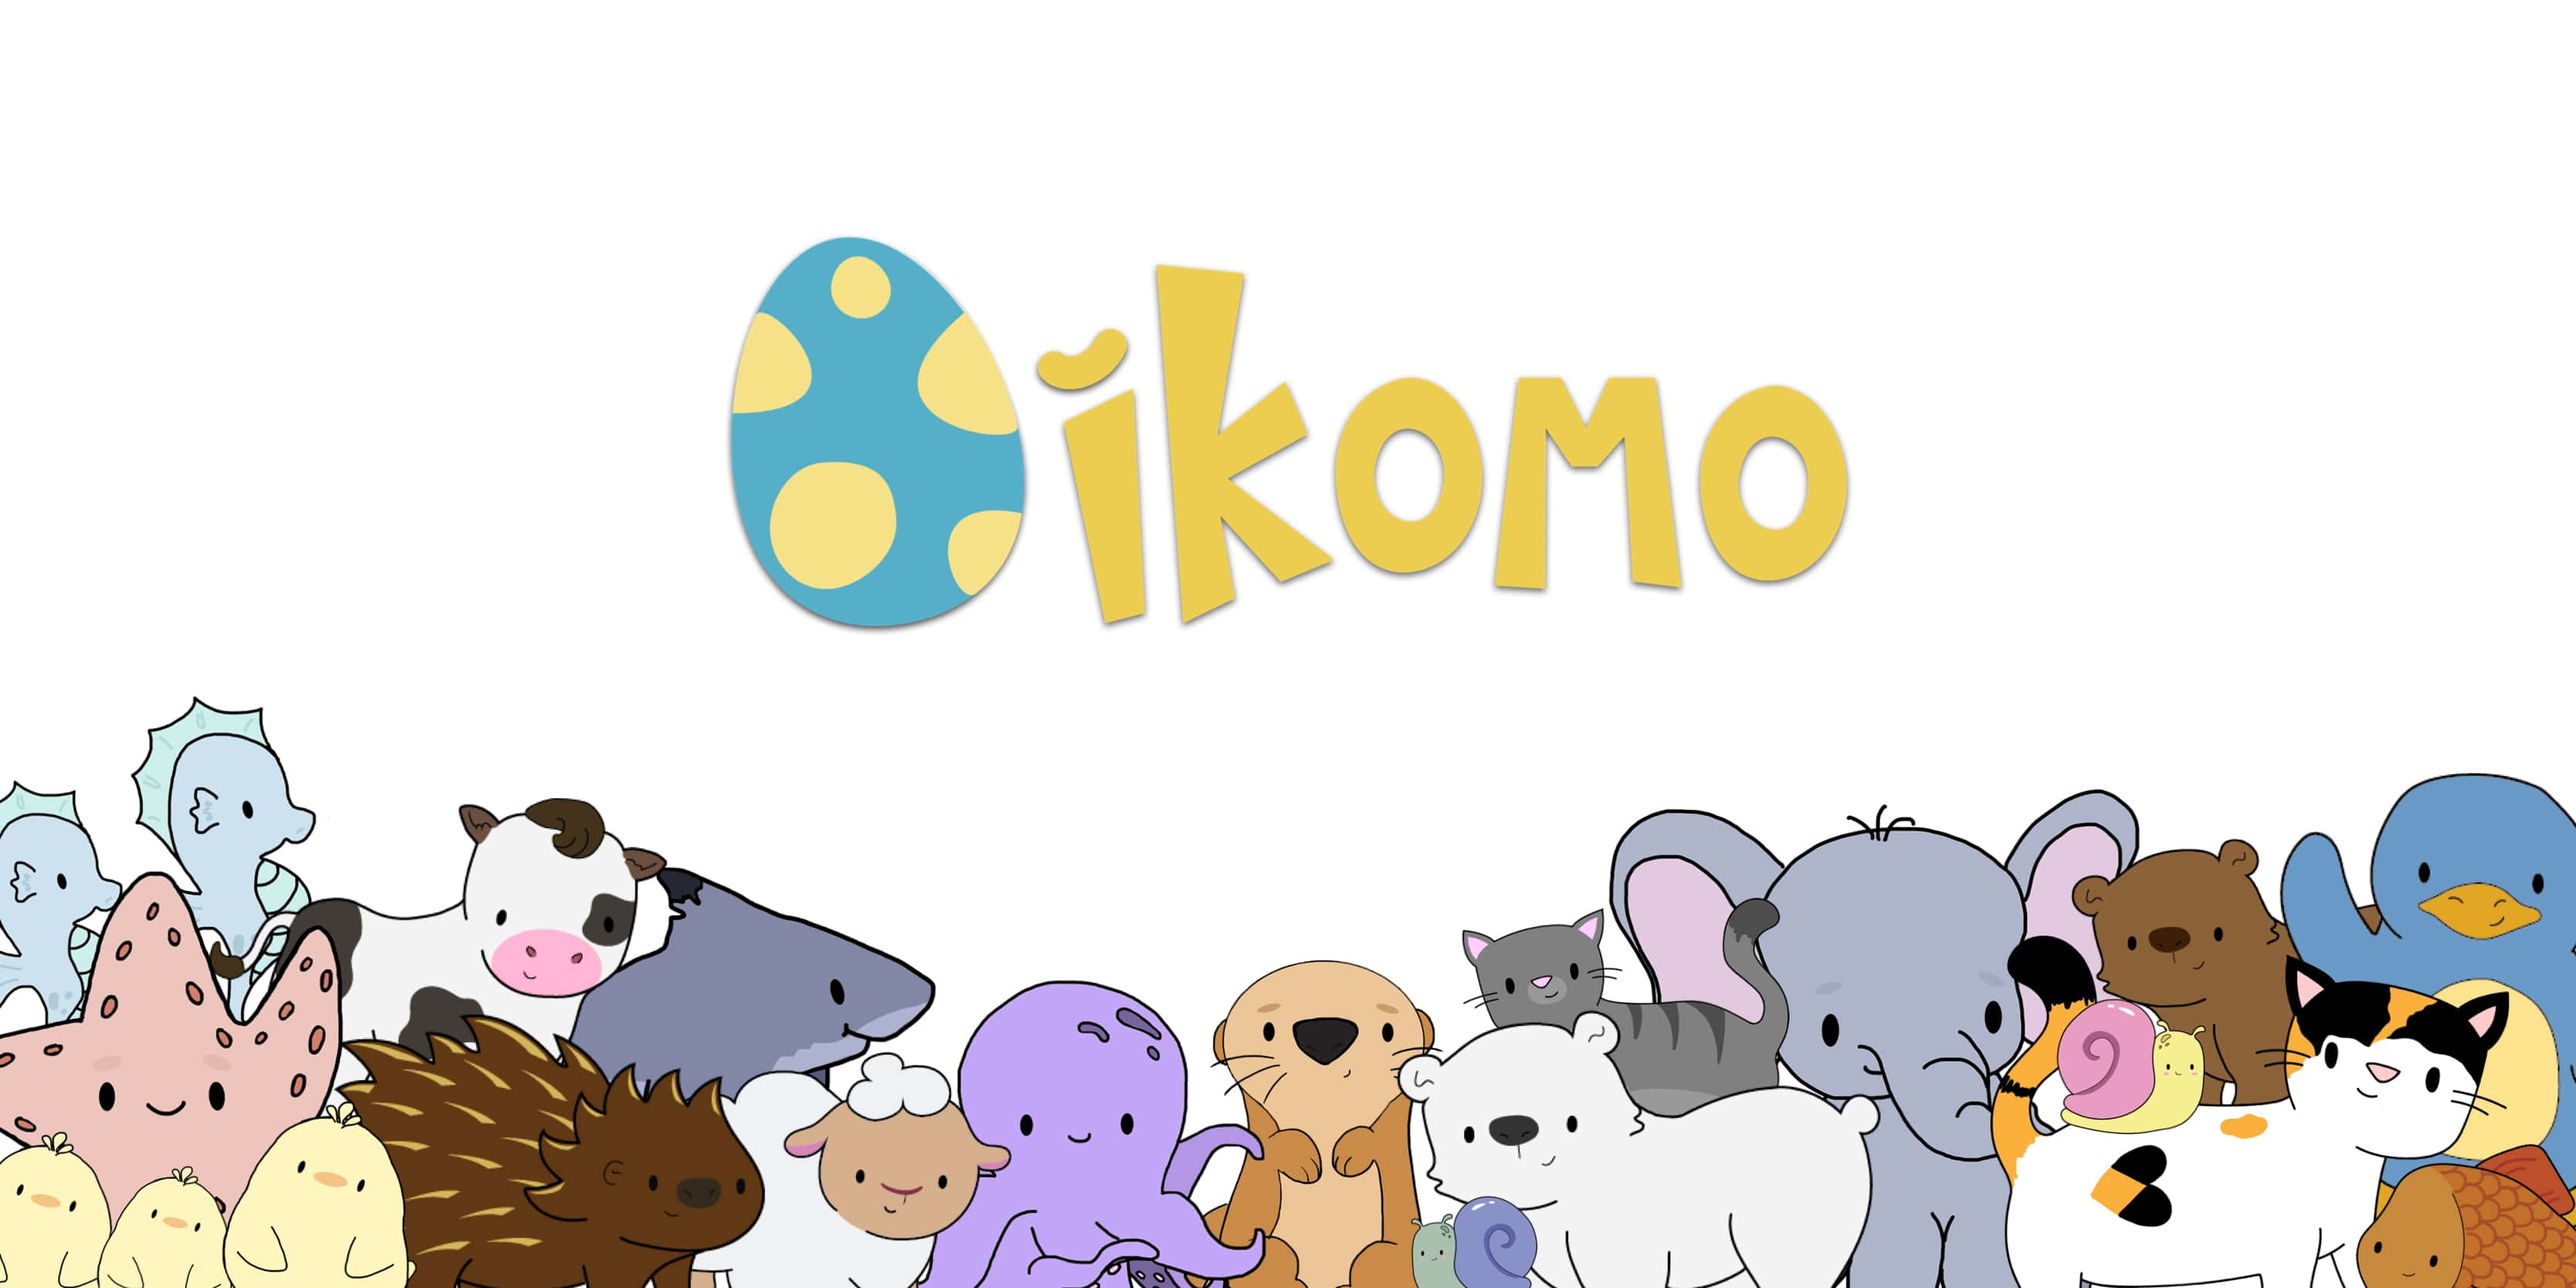
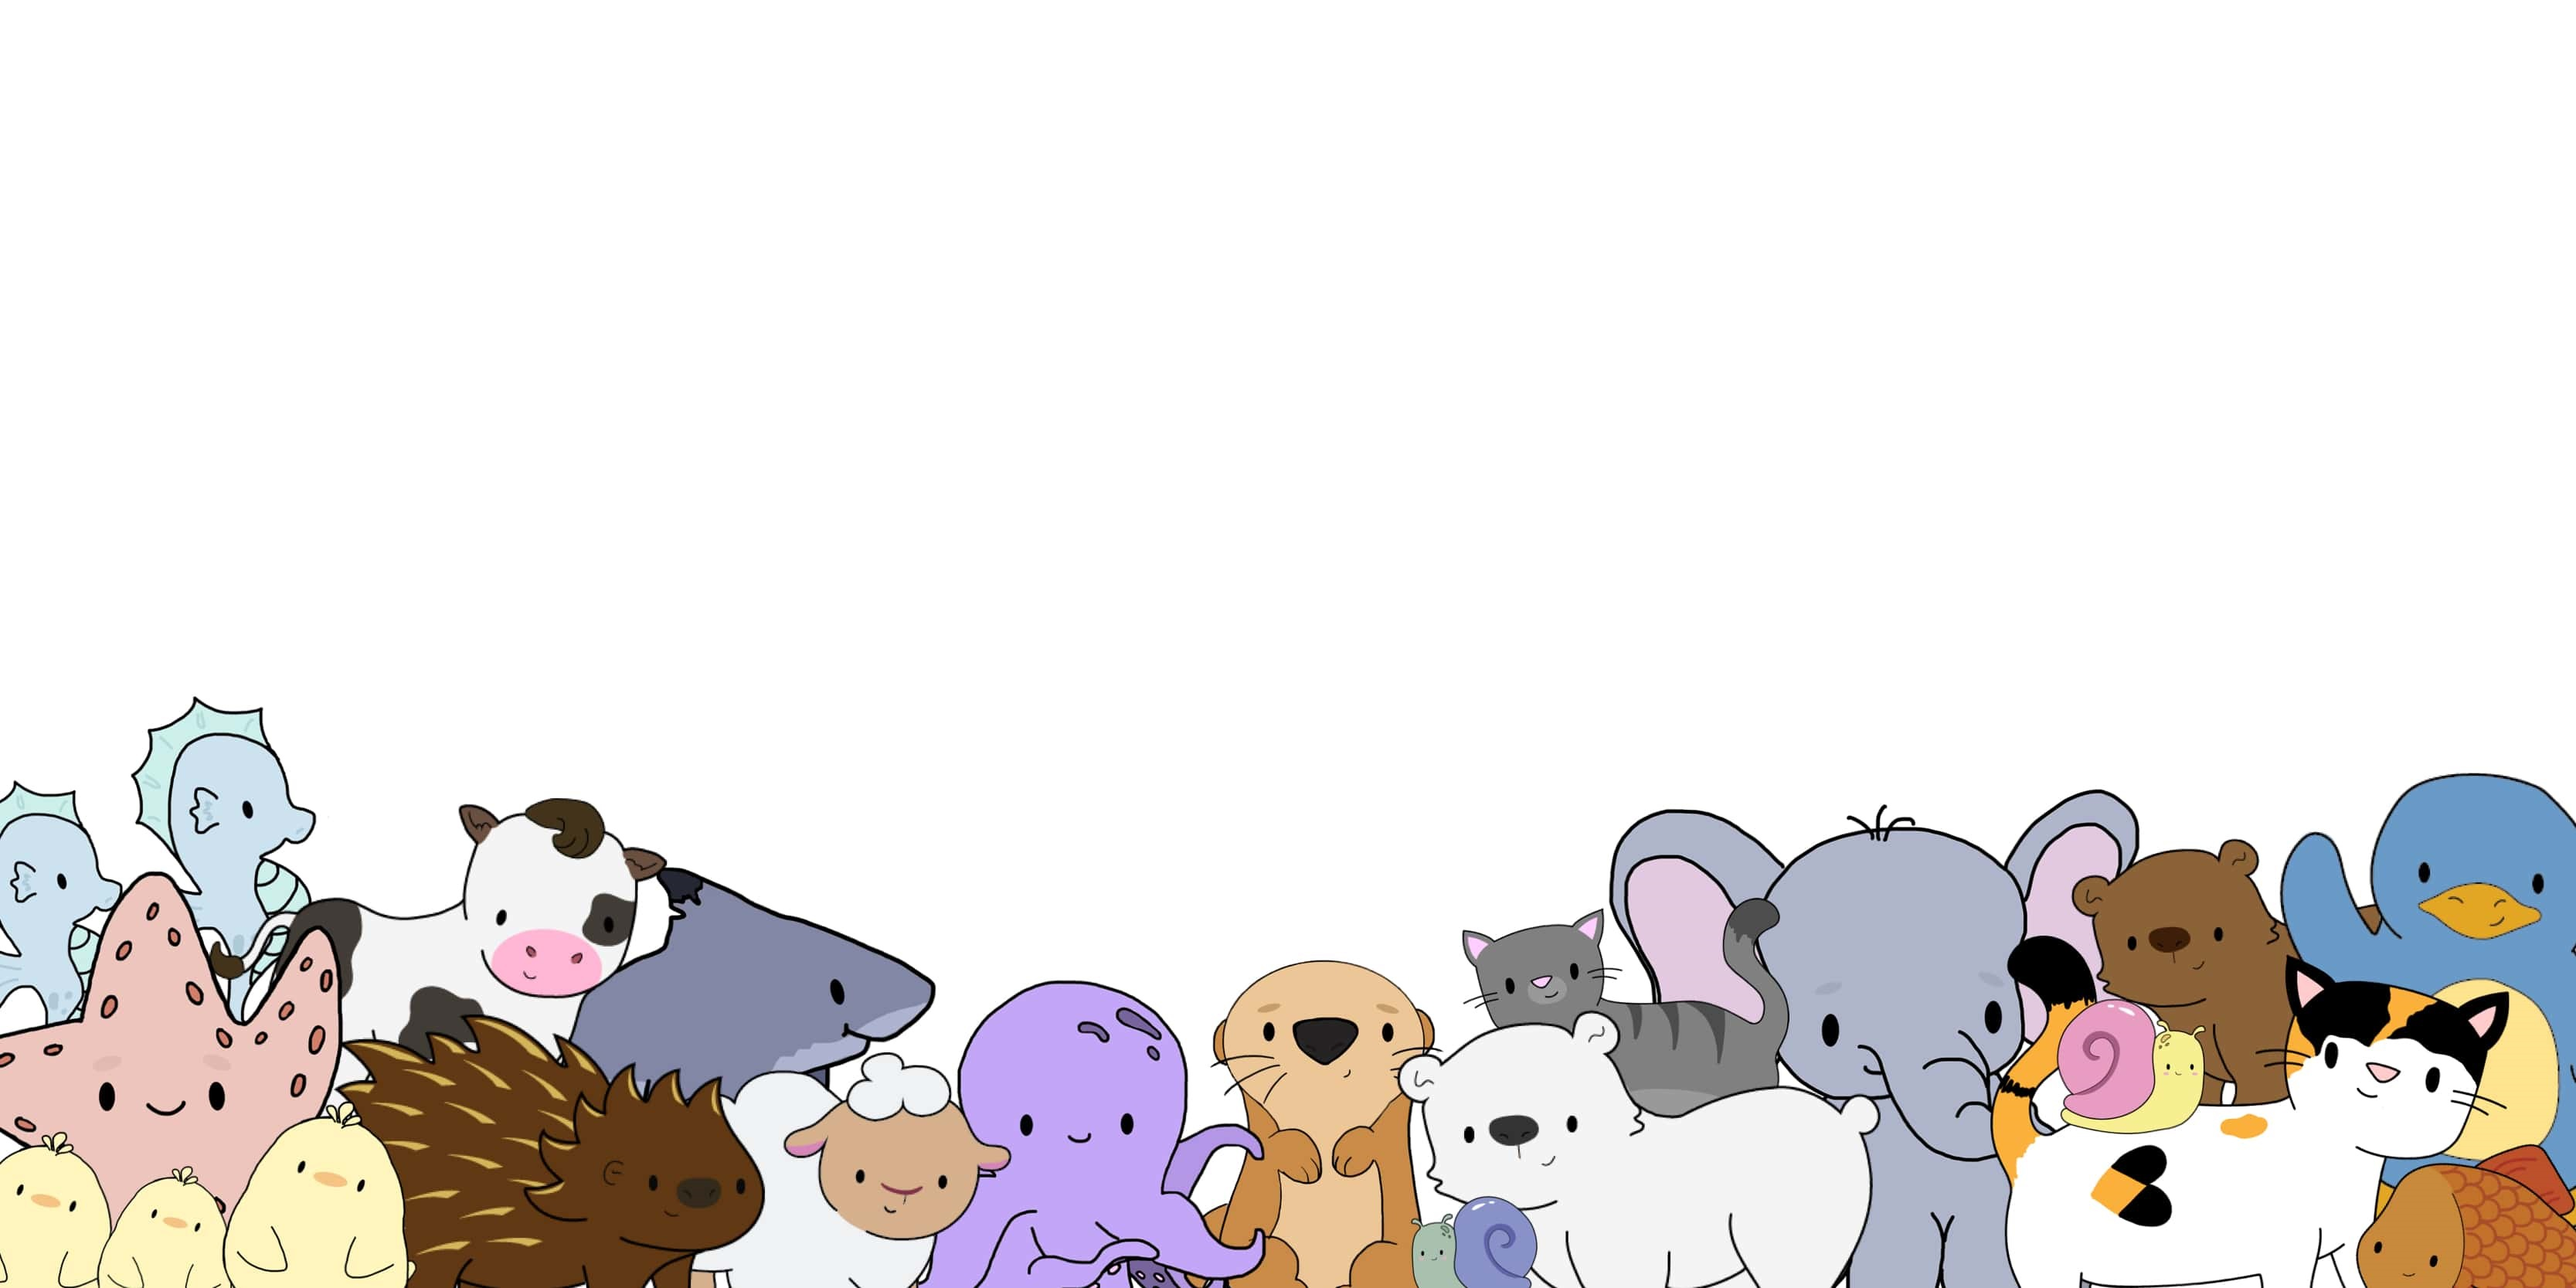
a

Changed region(s): [[0.2807, 0.1872, 0.7175, 0.4991]]

diff --git a/main.css b/main.css
@@ -53,3 +53,6 @@ body, html {
 #mainWelcomeText{
   text-align: center;
 }
+#mainScreenLogo{
+  display:none;
+}

diff --git a/index.php b/index.php
@@ -5,6 +5,7 @@ require 'header.php';
  <html>
   <head>
     <link rel = "stylesheet" type = "text/css" href = "main.css"/>
+    <link rel = "stylesheet" type = "text/css" href = "animate.css"/>
     <link rel = "stylesheet" href="https://stackpath.bootstrapcdn.com/bootstrap/4.1.3/css/bootstrap.min.css" integrity="sha384-MCw98/SFnGE8fJT3GXwEOngsV7Zt27NXFoaoApmYm81iuXoPkFOJwJ8ERdknLPMO" crossorigin="anonymous" />
     <style>
       #overlay {
@@ -76,7 +77,7 @@ require 'header.php';
 
         </div>
         <div id = "mainWelcomeText" class = "col-md-10">
-            <p class = "titleText"></p>
+            <img id = "mainScreenLogo" src = "./img/logo.jpg" class = "slideInUp" height ="176px" width = "402px">
         </div>
         <div class = "col-md-1">
 
@@ -111,6 +112,7 @@ require 'header.php';
   }
 
   progress();
+  document.getElementById('mainScreenLogo').style.display = block;
 </script>
 
  </html>
